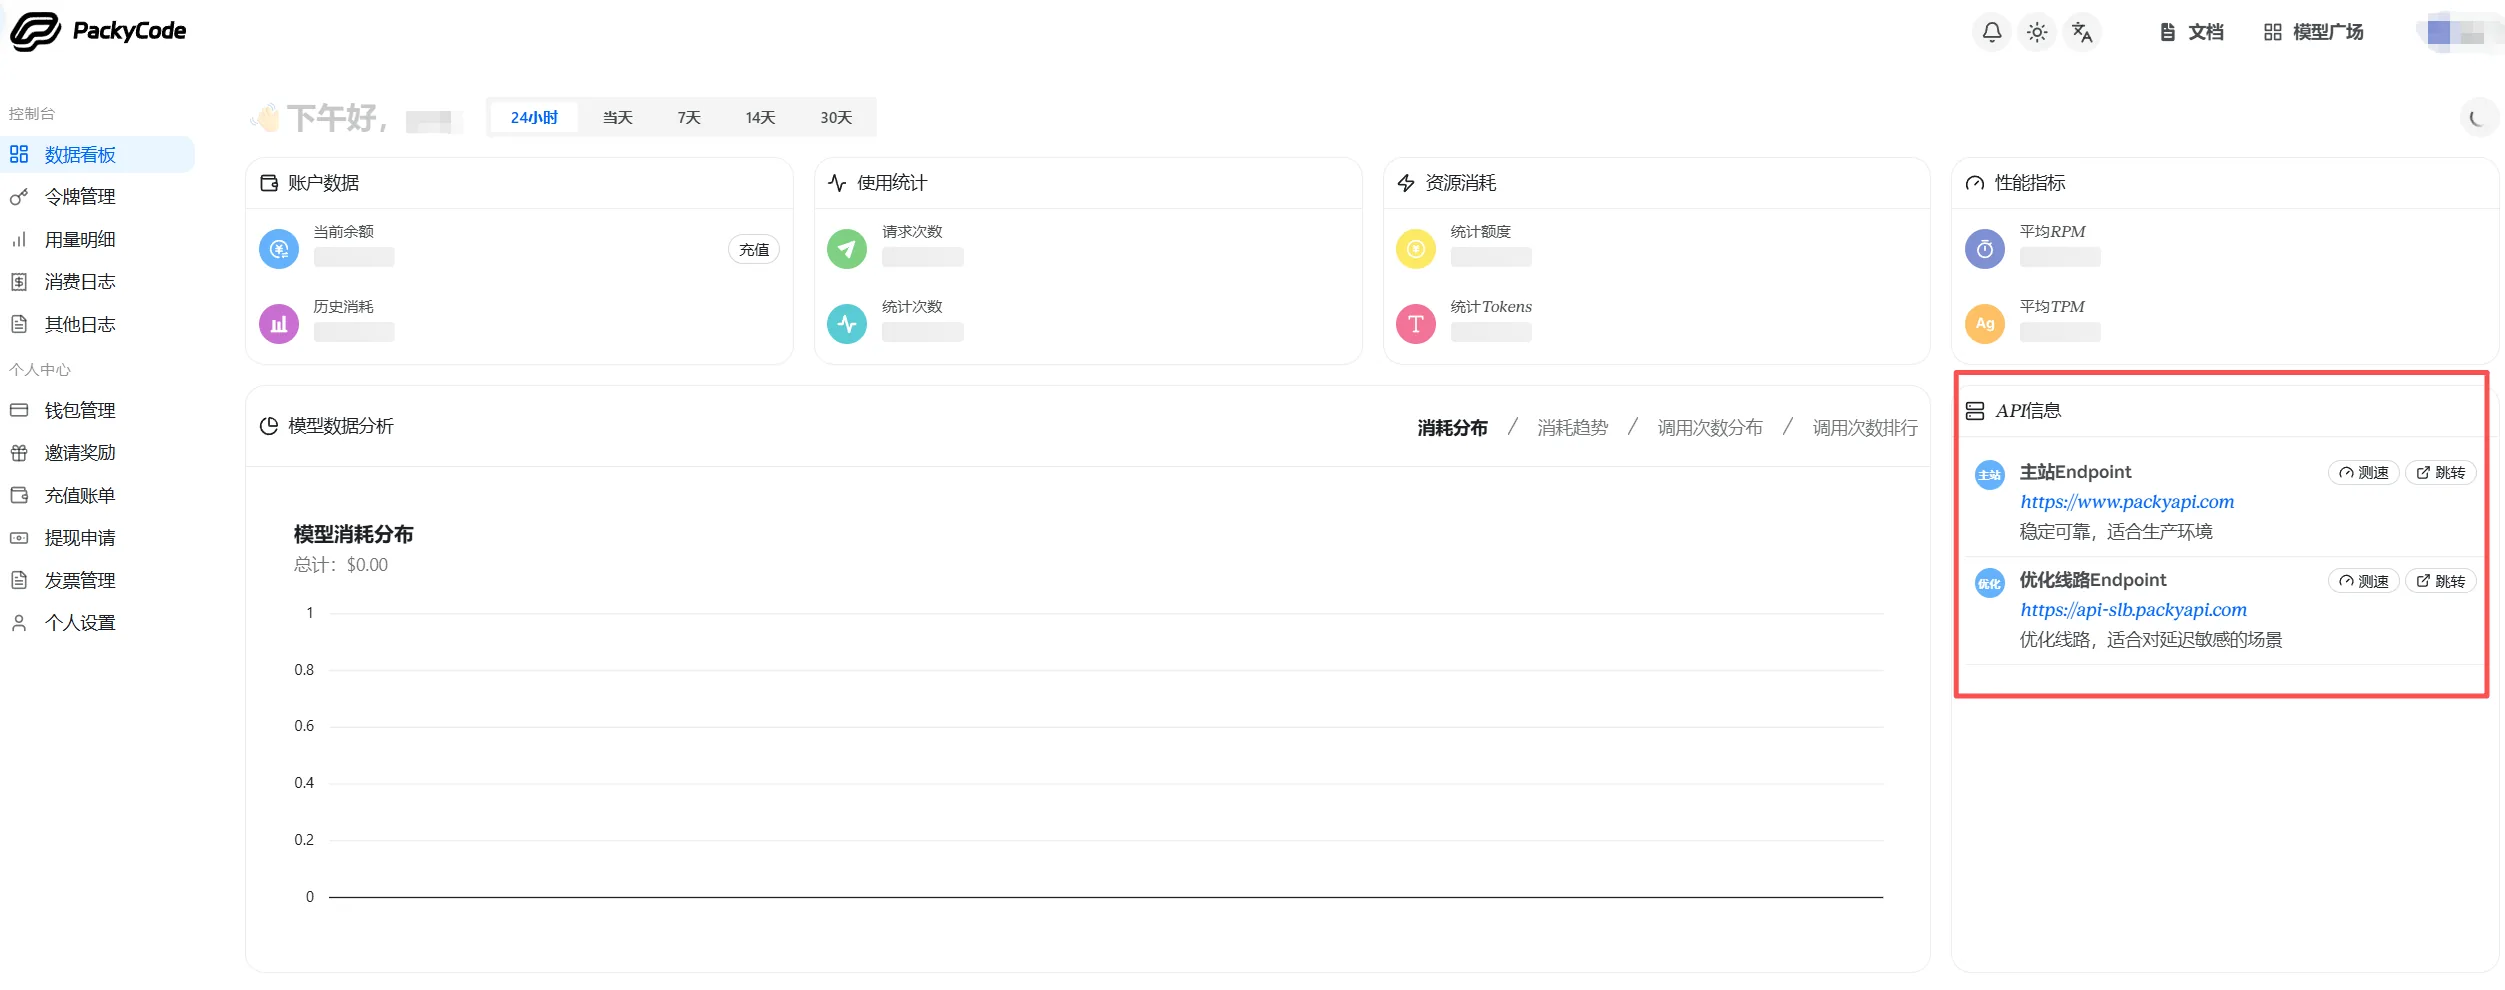
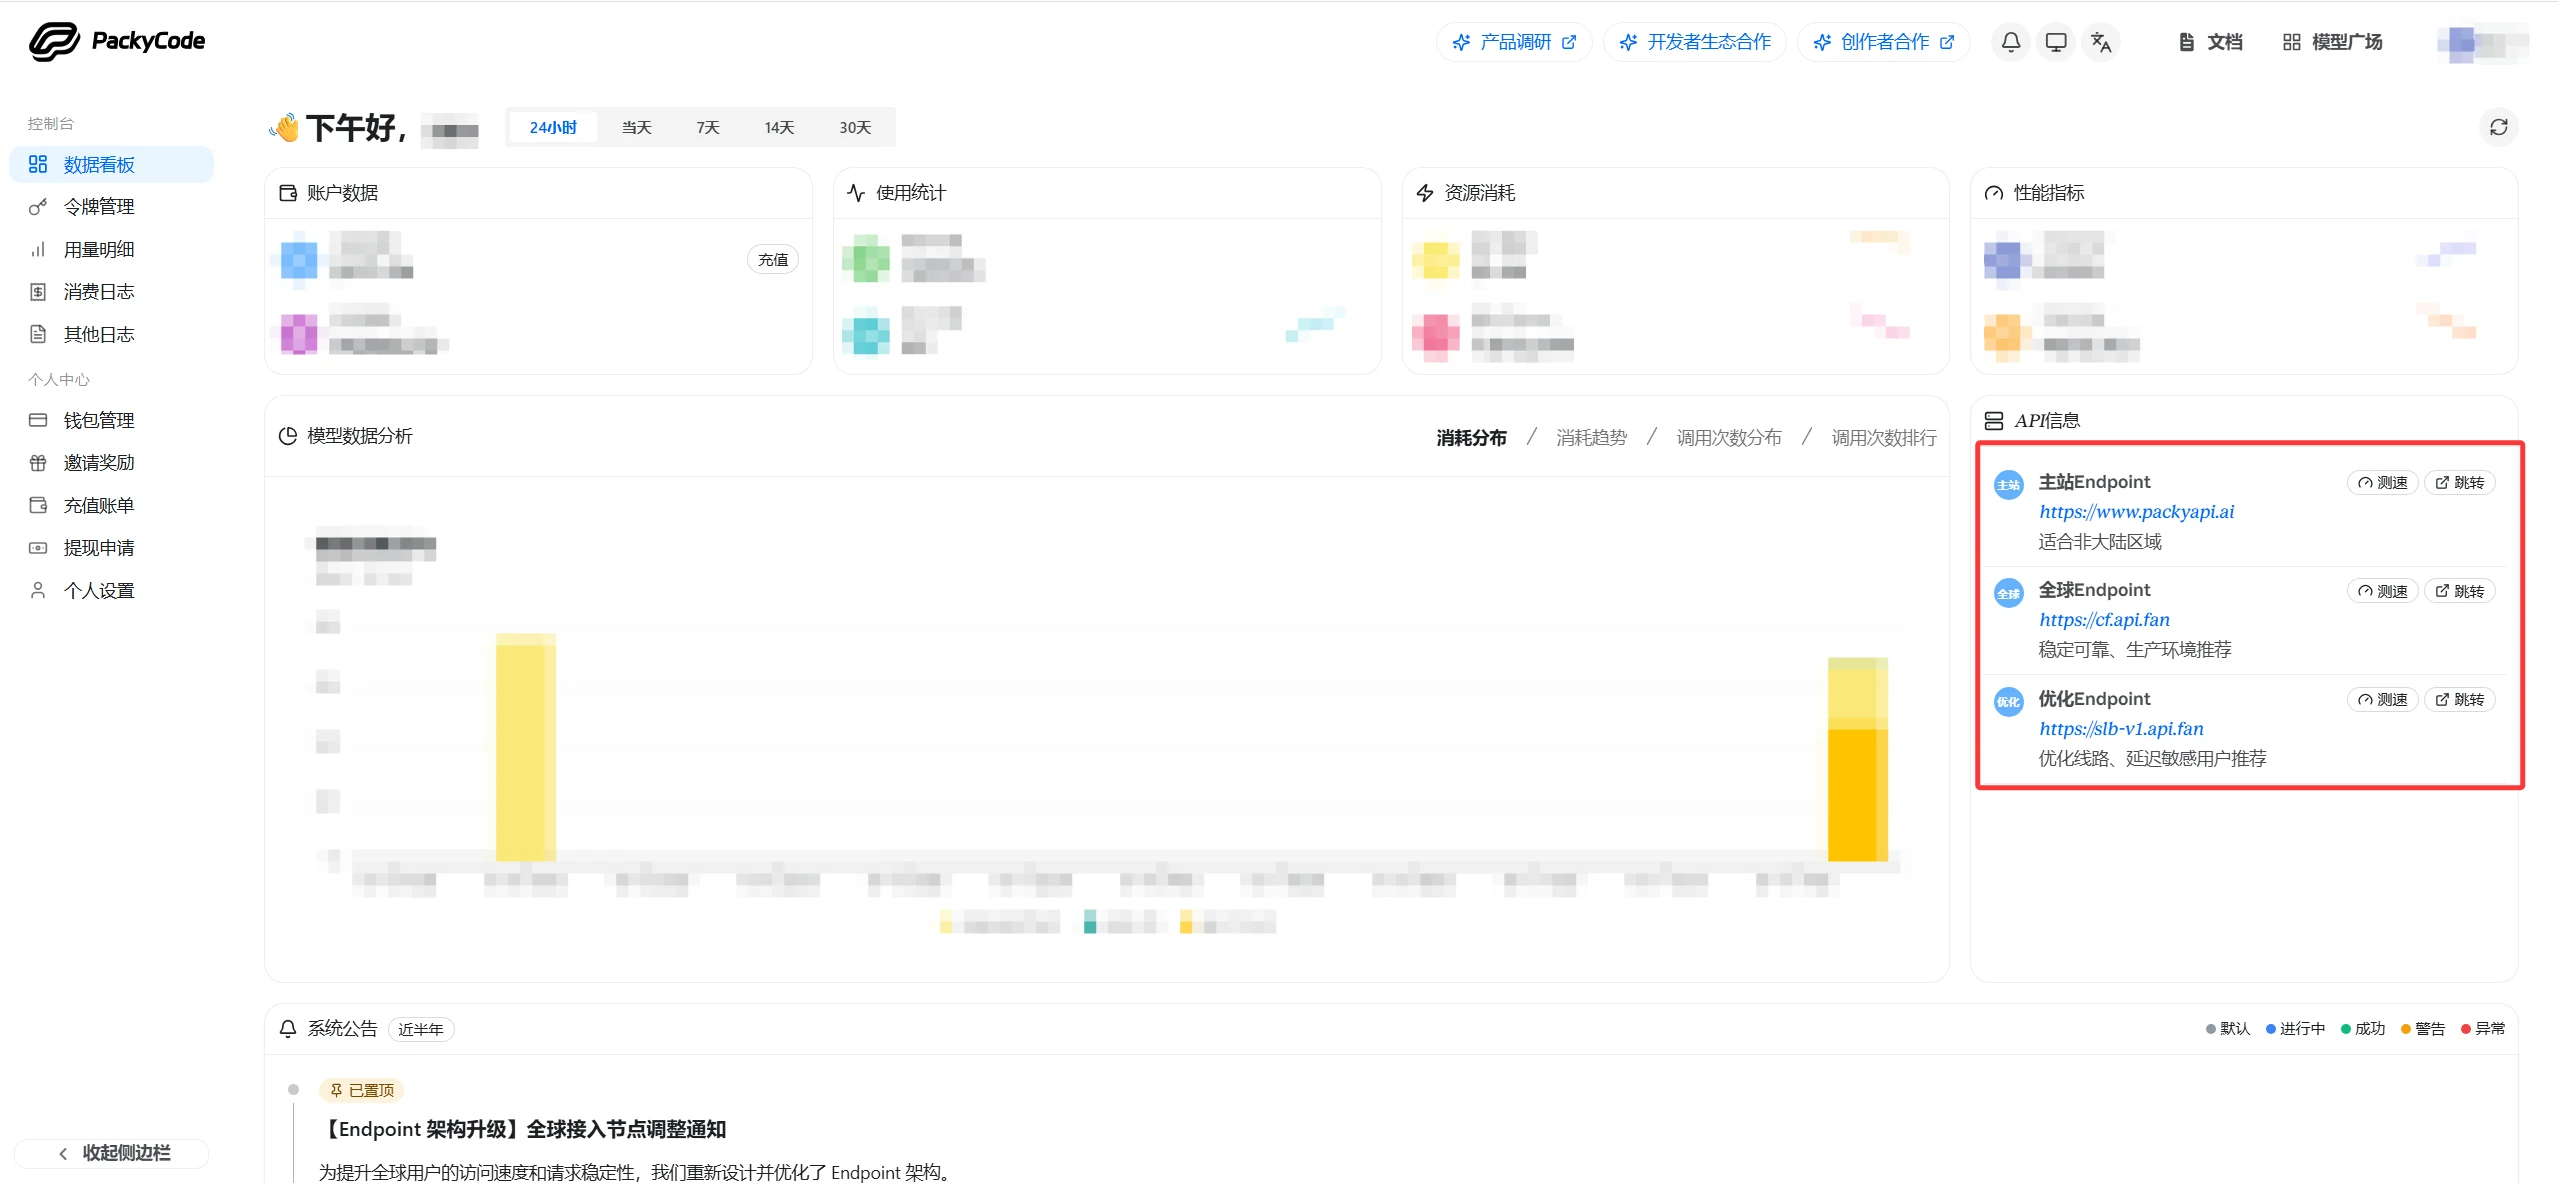
docs: API 端点说明补全三档地址，区分控制台网页与两个 API 端点
- 端点说明由单条 cf.api.fan 补全为三行：控制台网页 https://www.packyapi.ai、全球 Endpoint https://cf.api.fan、优化 Endpoint https://slb-v1.api.fan
- 新增提示，说明 www.packyapi.ai 是浏览器访问的网页地址，不能填入客户端接口地址；API 端点只有 cf.api.fan 与 slb-v1.api.fan 两个
- OpenAI 兼容端点 /v1 示例补充 https://slb-v1.api.fan/v1
- 配图 QuickStart/009.webp 更新为新版数据看板右侧端点面板截图（已转 webp，2558x1183）

diff --git a/src/docs/register/README.md b/src/docs/register/README.md
@@ -607,13 +607,20 @@ Google 官方 **Gemini CLI** 目前稳定性较差，几乎无法正常使用，
 
 ![](/assets/image/QuickStart/009.webp)
 
-- 主站 Endpoint：`https://cf.api.fan`，稳定可靠，适合生产环境。
+- **控制台网页**：`https://www.packyapi.ai`，浏览器访问的主站网页，适合非大陆区域。
+- **全球 Endpoint**：`https://cf.api.fan`，稳定可靠，生产环境推荐。
+- **优化 Endpoint**：`https://slb-v1.api.fan`，优化线路，延迟敏感用户推荐。
+
+::: warning 网页地址不能当 API 端点用
+`https://www.packyapi.ai` 是浏览器里打开的控制台网页地址，不能填到客户端的接口地址里。真正用来发起 API 请求的端点只有两个：`https://cf.api.fan`（全球）和 `https://slb-v1.api.fan`（优化），按你的网络情况二选一即可。
+:::
 
 ::: warning OpenAI 兼容端点需要添加 `/v1`
 如果你使用的是 OpenAI 兼容格式的客户端或工具，例如 Codex、OpenAI SDK、Cherry Studio 的 OpenAI 兼容配置，请在 API 地址后添加 `/v1`：
 
 ```bash
 https://cf.api.fan/v1
+https://slb-v1.api.fan/v1
 ```
 
 如果使用的是 Claude Code 等专用配置，请以对应教程中的示例为准。

diff --git a/src/docs/register/6-cli.md b/src/docs/register/6-cli.md
@@ -25,13 +25,20 @@ Google 官方 **Gemini CLI** 目前稳定性较差，几乎无法正常使用，
 
 ![](/assets/image/QuickStart/009.webp)
 
-- 主站 Endpoint：`https://cf.api.fan`，稳定可靠，适合生产环境。
+- **控制台网页**：`https://www.packyapi.ai`，浏览器访问的主站网页，适合非大陆区域。
+- **全球 Endpoint**：`https://cf.api.fan`，稳定可靠，生产环境推荐。
+- **优化 Endpoint**：`https://slb-v1.api.fan`，优化线路，延迟敏感用户推荐。
+
+::: warning 网页地址不能当 API 端点用
+`https://www.packyapi.ai` 是浏览器里打开的控制台网页地址，不能填到客户端的接口地址里。真正用来发起 API 请求的端点只有两个：`https://cf.api.fan`（全球）和 `https://slb-v1.api.fan`（优化），按你的网络情况二选一即可。
+:::
 
 ::: warning OpenAI 兼容端点需要添加 `/v1`
 如果你使用的是 OpenAI 兼容格式的客户端或工具，例如 Codex、OpenAI SDK、Cherry Studio 的 OpenAI 兼容配置，请在 API 地址后添加 `/v1`：
 
 ```bash
 https://cf.api.fan/v1
+https://slb-v1.api.fan/v1
 ```
 
 如果使用的是 Claude Code 等专用配置，请以对应教程中的示例为准。
